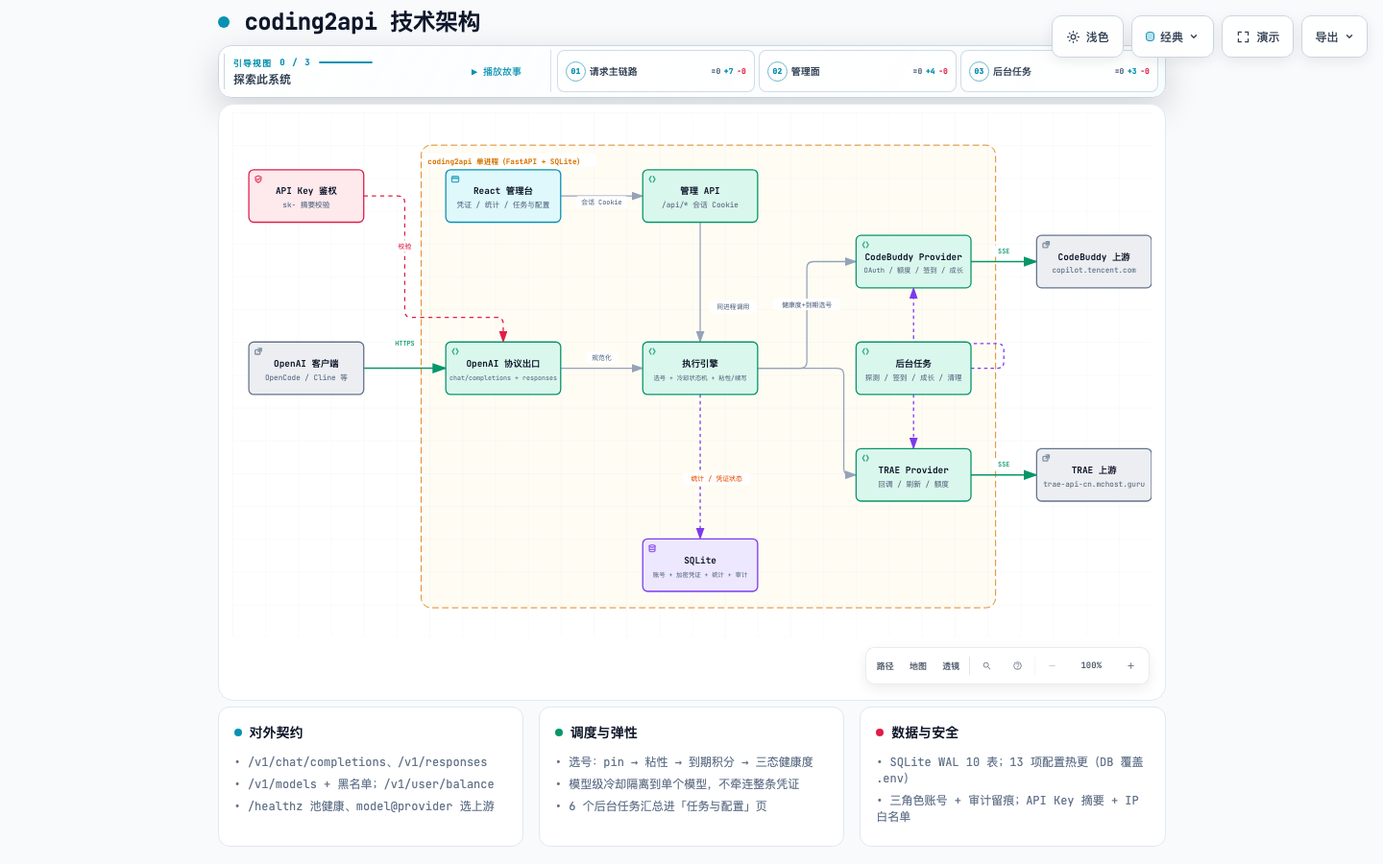
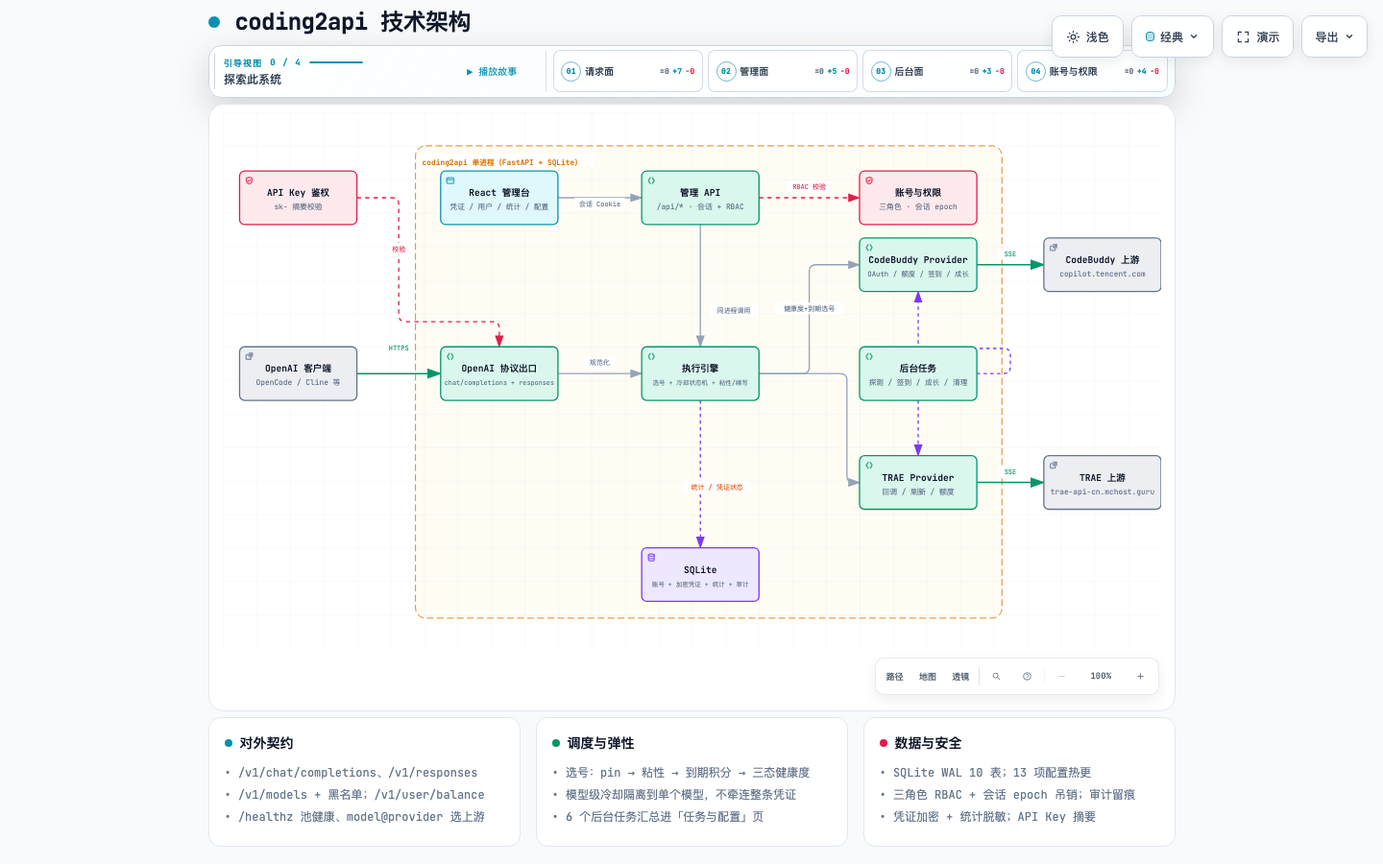
docs(architecture): 整体架构补 B5 账号/权限面
PROPOSAL §4.1 分层从「只有数据面」改为三平面视图（请求面 / 管理面 /
后台面 + 共享 SQLite），并补「为什么按平面切」的四条依据；新增
§4.7 账号与权限面（三角色判定面、鉴权链四步、epoch 吊销、一次性激活
令牌、审计范围、三层防锁死、删除语义），指向 TECHNICAL §3.13。

架构图新增「账号与权限」组件（security / RBAC · 会话 epoch）与
admin-api→identity 的 RBAC 校验边，管理面视图纳入 identity，并新增
第 4 个引导视图「账号与权限」；卡片「数据与安全」补会话 epoch 吊销与
审计留痕。重生成 HTML 与 4 张截图，validate 9/9（0 error / 0 warning），
visual-check 四个视口全 pass（1440×900 溢出 12px 已通过压缩卡片文案消除）。

事实核对：6 类后台循环 = build_runner；WAL + busy_timeout=5000 =
db/conn.py；三角色与 require_admin/require_operator = auth/rbac.py；
守卫顺序 _guard_last_admin 先于 self_target = api/admin_users.py。

diff --git a/diagrams/coding2api-architecture.html b/diagrams/coding2api-architecture.html
@@ -5085,7 +5085,7 @@ OTHER DEALINGS IN THE FONT SOFTWARE.
       </div>
     </div>
 
-    <script id="archify-guided-views-data" type="application/json">[{"id":"request-path","label":"请求主链路","focus":["clients","openai","engine","cb","trae","cb-up","trae-up"],"note":"客户端请求经协议层规范化，由执行引擎选号后流式转发到上游。"},{"id":"admin-plane","label":"管理面","focus":["admin-ui","admin-api","engine","db"],"note":"React 管理台经管理 API 同进程调用引擎，状态落 SQLite。"},{"id":"background","label":"后台任务","focus":["bg","cb","trae"],"note":"签到、额度探测、token 预刷新、成长中心、活跃上报与明细清理经 provider 客户端触达上游，运行态汇总到「任务与配置」页。"}]</script>
+    <script id="archify-guided-views-data" type="application/json">[{"id":"request-path","label":"请求面","focus":["clients","openai","engine","cb","trae","cb-up","trae-up"],"note":"客户端请求经协议层规范化，由执行引擎选号后流式转发到上游。"},{"id":"admin-plane","label":"管理面","focus":["admin-ui","admin-api","identity","engine","db"],"note":"React 管理台经会话鉴权与三角色 RBAC 进入管理 API，同进程调用引擎，状态落 SQLite。"},{"id":"background","label":"后台面","focus":["bg","cb","trae"],"note":"签到、额度探测、token 预刷新、成长中心、活跃上报与明细清理经 provider 客户端触达上游，运行态汇总到「任务与配置」页。"},{"id":"identity-plane","label":"账号与权限","focus":["identity","admin-ui","admin-api","db"],"note":"管理面身份来自 users 表：会话 Cookie 校验签名与 epoch，角色每请求现读 DB；登录与账号变动写审计。"}]</script>
 
     <script id="archify-i18n-data" type="application/json">{"locale":"zh-CN","messages":{"viewer.kind.frontend":"前端","viewer.kind.backend":"后端","viewer.kind.database":"数据库","viewer.kind.cloud":"云服务","viewer.kind.security":"安全","viewer.kind.messagebus":"消息总线","viewer.kind.external":"外部系统","viewer.kind.neutral":"中性","viewer.kind.node":"节点","viewer.kind.start":"开始","viewer.kind.active":"活动","viewer.kind.waiting":"等待","viewer.kind.decision":"决策","viewer.kind.success":"成功","viewer.kind.failure":"失败","viewer.toolbar.actions":"图表操作","viewer.theme.toggle.title":"切换主题（T）","viewer.theme.toggle":"切换颜色主题","viewer.theme.dark":"深色","viewer.theme.light":"浅色","viewer.preset.choose.title":"选择视觉风格（S 循环切换）","viewer.preset.choose":"选择视觉风格","viewer.preset.style":"风格","viewer.preset.menu":"视觉风格","viewer.preset.identity":"视觉表达","viewer.preset.cycles":"S 循环切换","viewer.preset.classic":"经典","viewer.preset.classic.short":"经典","viewer.preset.classic.hint":"稳定的技术默认风格","viewer.preset.flow":"信号流","viewer.preset.flow.short":"流动","viewer.preset.flow.hint":"突出动态流向","viewer.preset.blueprint":"蓝图","viewer.preset.blueprint.hint":"工程评审","viewer.preset.editorial":"编辑风格","viewer.preset.editorial.hint":"适合发布与上线说明","viewer.preset.badge.signalFlow":"信号流","viewer.preset.badge.blueprint":"蓝图 / 修订 01","viewer.preset.badge.editorial":"编辑风格 / 现场笔记","viewer.preset.badge.editorialPlate":"ARCHIFY / 图版 04","viewer.preset.current":"当前视觉风格：{style}。选择视觉风格","viewer.motion.live":"动态","viewer.motion.still":"静态","viewer.motion.pause":"暂停动效","viewer.motion.resume":"恢复动效","viewer.motion.reduced":"已根据减少动态效果偏好暂停动效","viewer.motion.hidden":"页面不可见时已暂停动效","viewer.motion.yielding":"暂停动效；当前让位于{owner}","viewer.motion.yielding.title":"动态预览已启用 · 正在让位于{owner}","viewer.owner.story":"引导故事","viewer.owner.chapter":"当前章节","viewer.owner.chapterPreview":"章节差异预览","viewer.owner.handoff":"章节交接","viewer.owner.route":"路径探测","viewer.owner.lens":"语义透镜","viewer.owner.relationship":"关系预览","viewer.owner.intent":"意图追踪","viewer.owner.focus":"语义聚焦","viewer.owner.legend":"图例预览","viewer.owner.reader":"读者交互","viewer.present.enter":"进入演示模式","viewer.present.enter.title":"演示模式（F）","viewer.present.exit":"退出演示模式","viewer.present.exit.title":"退出演示模式（F 或 Escape）","viewer.present.present":"演示","viewer.present.exit.label":"退出","viewer.export.button":"导出","viewer.export.button.title":"导出图表（E）","viewer.export.diagram":"导出图表","viewer.export.menu":"导出","viewer.export.subtitle":"便携、整洁的输出","viewer.export.share":"分享","viewer.export.shareCard":"分享卡片","viewer.export.routeShareCard":"路径分享卡片","viewer.export.reachShareCard":"可达范围分享卡片","viewer.export.copyShareCard":"复制分享卡片","viewer.export.copyDiagram":"复制图表","viewer.export.clipboardPng":"复制 PNG 到剪贴板","viewer.export.raster":"位图","viewer.export.image":"图像","viewer.export.lossless":"无损图像","viewer.export.compact":"紧凑图像","viewer.export.modern":"现代图像格式","viewer.export.vectorMotion":"矢量与动效","viewer.export.vectorMotion.heading":"矢量与动效","viewer.export.editable":"可编辑矢量图","viewer.export.motion6s":"6 秒动效","viewer.export.unsupported":"当前浏览器不支持","viewer.export.clipboardUnsupported":"当前浏览器不支持写入图片剪贴板","viewer.export.clipboardUnsupported.period":"当前浏览器不支持写入图片剪贴板。","viewer.export.clipboardUnsupported.short":"此浏览器不支持写入图片剪贴板。","viewer.export.motionUnavailable":"当前浏览器无法录制动效","viewer.export.webmUnavailable":"当前浏览器不支持 WebM","viewer.export.failed":"导出失败：{message}","viewer.export.unknownVariant":"未知的分享卡片类型：{variant}","viewer.export.routeRequired":"请先追踪路径，再导出路径分享卡片","viewer.export.reachRequired":"请先追踪编写可达范围，再导出可达范围分享卡片","viewer.export.unknown":"未知错误","viewer.export.routeFailed":"路径分享卡片导出失败：{message}","viewer.export.reachFailed":"可达范围分享卡片导出失败：{message}","viewer.export.copyFailed":"复制失败：{message}","viewer.export.copiedPng":"已将 PNG 复制到剪贴板","viewer.export.copiedShare":"已复制分享卡片","viewer.export.downloadedShare":"已下载分享卡片","viewer.export.downloadedRoute":"已下载路径分享卡片","viewer.export.downloadedReach":"已下载可达范围分享卡片","viewer.export.downloadedWebm":"已下载 WebM","viewer.export.recording":"正在录制 6 秒动效…","viewer.export.card.routeSummary.one":"路径：{source} → {target} · {count} 个有向跳转","viewer.export.card.routeSummary.other":"路径：{source} → {target} · {count} 个有向跳转","viewer.export.card.reachSummary":"从{origin}开始的编写{direction} · {nodes} · {links} · 最深 {hops}","viewer.export.card.node.one":"{count} 个节点","viewer.export.card.node.other":"{count} 个节点","viewer.export.card.link.one":"{count} 条连接","viewer.export.card.link.other":"{count} 条连接","viewer.export.card.hop.one":"{count} 跳","viewer.export.card.hop.other":"{count} 跳","viewer.export.card.routeBadge":"ARCHIFY · 路径 · {hops}","viewer.export.card.reachBadge":"ARCHIFY · {direction}可达范围","viewer.export.card.defaultBadge":"ARCHIFY · {preset} · {theme}","viewer.export.direction.upstream":"上游","viewer.export.direction.downstream":"下游","viewer.export.error.canvasUnavailable":"无法为{label}使用画布","viewer.export.error.contextUnavailable":"无法为{label}创建二维画布上下文","viewer.export.error.toBlobUnavailable":"{label}无法使用 canvas.toBlob","viewer.export.error.toBlobNull":"{label}的 canvas.toBlob 未返回数据","viewer.export.error.variantsCombined":"无法同时组合多种分享卡片类型","viewer.export.error.viewerState":"分享卡片导出无法移除临时 Viewer 状态","viewer.export.error.routeState":"路径卡片导出无法安全保留已解析路径","viewer.export.error.reachState":"可达范围卡片导出无法安全保留编写的可达范围","viewer.export.error.webmRequirements":"WebM 动效导出需要追踪动画及浏览器 MediaRecorder 支持","viewer.export.error.mediaRecorder":"MediaRecorder 录制失败","viewer.export.error.emptyWebm":"MediaRecorder 生成了空的 WebM","viewer.export.error.webmBackground":"无法为 WebM 导出加载 SVG 背景","viewer.guided.region":"图表引导视图","viewer.guided.previous":"上一个引导视图","viewer.guided.previous.title":"上一个引导视图（[）","viewer.guided.next":"下一个引导视图","viewer.guided.next.title":"下一个引导视图（]）","viewer.guided.views":"引导视图","viewer.guided.explore":"探索此系统","viewer.guided.intro":"沿精选路径逐步查看，而不改变源图表。","viewer.guided.trail":"故事轨迹","viewer.guided.beat":"节点","viewer.guided.nextBeat":"下一步","viewer.guided.play":"播放引导故事","viewer.guided.play.title":"播放引导故事（P）","viewer.guided.pause":"暂停引导故事","viewer.guided.pause.title":"暂停引导故事（P）","viewer.guided.replay":"重播引导故事","viewer.guided.replay.title":"重播引导故事（P）","viewer.guided.playStory":"播放故事","viewer.guided.pauseStory":"暂停","viewer.guided.replayStory":"重播故事","viewer.guided.motionUnavailable":"静态模式下无法播放故事","viewer.guided.enableMotion":"切换为动态模式以播放引导故事","viewer.guided.selectBeatLink":"选择故事节点以复制其精确链接","viewer.guided.copyMoment":"复制此刻","viewer.guided.momentCopied":"已复制时刻链接","viewer.guided.momentCopyFailed":"无法复制故事时刻链接","viewer.guided.copied":"已复制","viewer.guided.copyFailed":"复制失败","viewer.guided.showAll":"显示全部","viewer.guided.showAll.aria":"显示完整图表","viewer.guided.chapters":"故事章节","viewer.guided.storyTrail":"{label}的故事轨迹：{count} 个节点","viewer.guided.chapter.open":"打开第 {index}/{total} 章：{label}，{count} 个停靠点","viewer.guided.chapter.current":"当前第 {index}/{total} 章：{label}，{count} 个停靠点","viewer.guided.chapter.selectedNodes":"已选择 {count} 个节点","viewer.guided.chapter.stops":"{count} 个停靠点","viewer.guided.chapter.stop.one":"{count} 个停靠点","viewer.guided.chapter.stop.other":"{count} 个停靠点","viewer.guided.chapter.current.title":"{label} — 当前章节，{count} 个停靠点","viewer.guided.chapter.delta.expanded":"{stay} 个保留，{enter} 个进入，{leave} 个离开","viewer.guided.chapter.delta.aria":"打开第 {index}/{total} 章：{label}。章节聚焦差异：{delta}","viewer.guided.chapter.delta.title":"{label} — 章节聚焦 {delta}","viewer.guided.handoff":"{from} → {to} · 经由{label}","viewer.guided.share.chapter":"章节 {index} / {total}","viewer.guided.share.initial":"章节 01 / 01","viewer.guided.share.default":"引导章节","viewer.guided.state.ready":"就绪","viewer.guided.state.playing":"播放中","viewer.guided.state.settled":"已完成","viewer.guided.state.paused":"已暂停","viewer.guided.state.pinned":"已固定","viewer.guided.state.still":"静态","viewer.guided.share.step":"步骤 {index} / {total} · {label}","viewer.guided.share.staticMoment":"{step} · 静态时刻","viewer.guided.share.complete":"{count} 个步骤已完成 · {note}","viewer.guided.share.settled":"路径已稳定，可供阅读。","viewer.guided.share.staticPath":"{count} 个步骤 · 静态路径","viewer.guided.share.ready":"{count} 个步骤 · 就绪","viewer.guided.share.aria":"{state}，第 {index}/{total} 章：{label}。{beat}。{route}","viewer.guided.beat.start":"节点 {index} / {total} · {label} · 起点","viewer.guided.beat.forward":"节点 {index} / {total} · {from} → {to}","viewer.guided.beat.reverse":"节点 {index} / {total} · {from} → {to} · 反向编写连接","viewer.guided.beat.multiple":"节点 {index} / {total} · {from} ⇄ {to} · {count} 条编写连接","viewer.guided.beat.group":"节点 {index} / {total} · {from} · {to} · 分组 · 无直接连接","viewer.guided.beat.aria.prefix":"故事节点 {index}/{total}：{label}。","viewer.guided.beat.aria.start":"起点。","viewer.guided.beat.aria.forward":"从{from}经一条正向编写关系到达。","viewer.guided.beat.aria.reverse":"从{from}出发；编写关系实际由{to}指向{from}。","viewer.guided.beat.aria.multiple":"从{from}经 {count} 条编写关系到达；不使用任意动效。","viewer.guided.beat.aria.group":"与{from}分组展示，没有直接编写关系。","viewer.guided.caption.start":"起点","viewer.guided.caption.grouped":"分组过渡 · 无直接编写连接","viewer.guided.caption.more":" +另外 {count} 条","viewer.guided.caption.reverse":"反向编写关系","viewer.guided.caption.relationships":"{count} 条编写关系","viewer.guided.caption.relationship":"编写关系","viewer.guided.caption.direction":"编写方向：{from} → {to}","viewer.guided.caption.starting":"编写起点","viewer.guided.beatLink":"复制当前故事时刻链接：第 {index}/{total} 个节点：{label}","viewer.guided.noStory":"此图表没有编写引导故事。","viewer.guide.eyebrow":"图表指南","viewer.guide.close":"关闭图表指南","viewer.guide.inspecting":"正在检查已编译语义","viewer.guide.actions":"图表探索操作","viewer.guide.find":"查找任意节点","viewer.guide.find.hint":"搜索标签、职责、类型和稳定 ID。","viewer.guide.route":"追踪路径","viewer.guide.route.aria":"追踪有向路径","viewer.guide.route.hint":"查看两个语义节点如何按编写方向连接。","viewer.guide.map":"查看完整系统","viewer.guide.map.hint":"打开带实时视口和稳定节点的语义雷达。","viewer.guide.lens":"比较语义类型","viewer.guide.lens.hint":"统计角色、显示流量并比较直接编写的连接。","viewer.guide.story":"播放引导故事","viewer.guide.story.hint":"浏览已编写的章节和真实关系。","viewer.guide.present":"进入演示模式","viewer.guide.present.hint":"让实时图表占满视口，同时不改变导出。","viewer.guide.shortcuts":"其他键盘快捷键","viewer.guide.shortcut.export":"导出","viewer.guide.shortcut.theme":"主题","viewer.guide.shortcut.style":"风格","viewer.guide.shortcut.reset":"重置","viewer.guide.shortcut.zoomIn":"放大","viewer.guide.shortcut.zoomOut":"缩小","viewer.guide.shortcut.close":"关闭","viewer.guide.facts":"{nodes} · {relationships} · {views}","viewer.guide.fact.node.one":"{count} 个语义节点","viewer.guide.fact.node.other":"{count} 个语义节点","viewer.guide.fact.relationship.one":"{count} 条关系","viewer.guide.fact.relationship.other":"{count} 条关系","viewer.guide.fact.view.one":"{count} 个引导视图","viewer.guide.fact.view.other":"{count} 个引导视图","viewer.guide.story.available.one":"浏览 {count} 个已编写章节及其真实关系。","viewer.guide.story.available.other":"浏览 {count} 个已编写章节及其真实关系。","viewer.guide.story.unavailable":"此图表没有编写引导故事。","viewer.guide.open":"打开图表指南","viewer.guide.noStory":"此图表没有编写引导故事。","viewer.finder.title":"查找节点","viewer.finder.close":"关闭节点查找器","viewer.finder.placeholder":"搜索标签或 ID","viewer.finder.search":"搜索图表节点","viewer.finder.results":"图表节点","viewer.finder.empty":"没有匹配的节点","viewer.finder.result.focus":"聚焦{label}","viewer.finder.result.routeStart":"选择{label}作为路径起点","viewer.finder.result.routeTarget":"选择{label}作为路径终点，{links}","viewer.finder.status.empty":"没有匹配的节点","viewer.finder.status.count.one":"{count} 个匹配节点","viewer.finder.status.count.other":"{count} 个匹配节点","viewer.finder.noun.nodes":"个节点","viewer.finder.link.one":"{count} 条连接","viewer.finder.link.other":"{count} 条连接","viewer.finder.result.focus.one":"聚焦{label}，{count} 条相关连接","viewer.finder.result.focus.other":"聚焦{label}，{count} 条相关连接","viewer.finder.status.filtered":"{visible}/{available} {noun}","viewer.finder.status.all":"{available} {noun}","viewer.passport.eyebrow":"语义护照","viewer.passport.metadata":"节点元数据","viewer.passport.evidence":"已验证的源代码证据","viewer.passport.verified":"已验证来源","viewer.passport.verificationScope":"已按固定修订版本验证本地 Git 证据，未检查远程访问权限。","viewer.passport.reach":"编写可达范围","viewer.passport.reach.trace":"追踪编写的可达性","viewer.passport.upstream":"上游","viewer.passport.downstream":"下游","viewer.passport.upstream.trace":"追踪上游编写可达性","viewer.passport.downstream.trace":"追踪下游编写可达性","viewer.passport.close":"关闭语义护照","viewer.passport.copy":"复制链接","viewer.passport.copy.focus":"复制聚焦节点的链接","viewer.passport.relations":"关系","viewer.passport.relations.show":"显示关联关系","viewer.passport.relations.hide":"隐藏关联关系","viewer.passport.relations.list":"关联关系","viewer.passport.copyRelation":"复制关系","viewer.passport.copyNode":"复制节点","viewer.passport.copyPinned":"复制固定关系的链接","viewer.passport.copySource":"复制来源节点的链接","viewer.passport.copy.focused.success":"已复制聚焦节点链接","viewer.passport.copy.pinned.success":"已复制固定关系链接","viewer.passport.copy.focused.failed":"无法复制聚焦节点链接","viewer.passport.copy.pinned.failed":"无法复制固定关系链接","viewer.passport.relationship.none":"没有关联关系","viewer.passport.relationship.count.one":"{count} 条关系","viewer.passport.relationship.count.other":"{count} 条关系","viewer.passport.relationship.show.one":"显示 {count} 条关联关系","viewer.passport.relationship.show.other":"显示 {count} 条关联关系","viewer.passport.relationship.summary":"{out} 条出向 · {in} 条入向{loops}","viewer.passport.relationship.loops":" · {count} 条自环","viewer.passport.relationship.explorer":"直接关系浏览器","viewer.passport.relationship.help":"使用方向键浏览关系。按 Enter 或空格键固定详情；按 Escape 清除。","viewer.passport.relationship.loopsBack":"回环","viewer.passport.relationship.connectsTo":"连接到","viewer.passport.relationship.connectsFrom":"连接自","viewer.passport.relationship.pinned":"已固定关系 · {from} → {to} · {label}","viewer.passport.relationship.inspect":"检查第 {index}/{total} 条关系：{from} 到 {to}，{label}。按 Enter 查看详情。","viewer.passport.relationship.group.out":"出向","viewer.passport.relationship.group.in":"入向","viewer.passport.relationship.group.loop":"自环","viewer.passport.relationship.row":"{group}：{relationship}，{neighbor}","viewer.passport.relationship.direction.out":"出 →","viewer.passport.relationship.direction.in":"← 入","viewer.passport.relationship.direction.loop":"自环","viewer.passport.sourceCount.one":"{count} 个已验证来源引用","viewer.passport.sourceCount.other":"{count} 个已验证来源引用","viewer.passport.sourceMarker":"来源","viewer.passport.beacon.one":"{count} 个已验证来源；聚焦此节点以检查","viewer.passport.beacon.other":"{count} 个已验证来源；聚焦此节点以检查","viewer.passport.repository.open":"打开已验证的仓库修订版本 {revision}","viewer.passport.source.open":"打开修订版本 {revision} 中已验证的来源 {path}","viewer.passport.source.openLink":"打开 ↗","viewer.passport.reach.upstream.one":"追踪 {count} 个上游编写节点","viewer.passport.reach.upstream.other":"追踪 {count} 个上游编写节点","viewer.passport.reach.downstream.one":"追踪 {count} 个下游编写节点","viewer.passport.reach.downstream.other":"追踪 {count} 个下游编写节点","viewer.passport.reach.noUpstream":"没有上游编写节点","viewer.passport.reach.noDownstream":"没有下游编写节点","viewer.passport.reach.status":"{direction} · {nodes} 个节点 · {links} 条连接 · 最深 {hops} 跳","viewer.route.eyebrow":"路径探测","viewer.route.start":"选择起点节点","viewer.route.start.find":"查找起点","viewer.route.start.find.aria":"查找路径起点","viewer.route.copy":"复制链接","viewer.route.copy.aria":"复制已追踪路径的链接","viewer.route.clear":"清除","viewer.route.clear.aria":"清除路径探测","viewer.route.traced":"已追踪路径","viewer.route.pickTwo":"在图表中选择两个语义节点","viewer.route.pickOne":"在图表中选择一个语义节点","viewer.route.controls":"路径旅程控制","viewer.route.previous":"上一个路径位置","viewer.route.play":"播放路径旅程","viewer.route.pause":"暂停路径旅程","viewer.route.replay":"重播路径旅程","viewer.route.next":"下一个路径位置","viewer.route.journey":"旅程","viewer.route.pause.label":"暂停","viewer.route.replay.label":"重播","viewer.route.overview":"总览","viewer.route.overview.aria":"显示完整路径总览","viewer.route.instructions":"先选择来源，再选择目标；方向很重要。","viewer.route.destination":"选择从{label}出发的目标","viewer.route.destination.find":"查找目标","viewer.route.destination.find.aria":"查找可达的路径目标","viewer.route.differentDestination":"选择其他目标","viewer.route.distinct":"一条路径需要两个不同的语义节点。","viewer.route.unreachable":"没有通往{label}的有向路径","viewer.route.unreachable.detail":"从{source}无法到达{target}。请选择高亮的目标。","viewer.route.start.instructions":"选择来源。下一步只会显示有向可达的目标。","viewer.route.copy.success":"已复制路径链接","viewer.route.copy.failed":"无法复制路径链接","viewer.route.position":"路径位置 {index}/{total}：{label}","viewer.route.step":"第 {index}/{total} 步 · {phase} · {label}","viewer.route.motionRequired":"自动旅程需要动态模式","viewer.route.trigger.clear":"清除已追踪路径","viewer.route.overview.status":"{nodes} · {hops} · 最短编写路径","viewer.route.overview.node.one":"{count} 个节点","viewer.route.overview.node.other":"{count} 个节点","viewer.route.overview.hop.one":"{count} 个有向跳转","viewer.route.overview.hop.other":"{count} 个有向跳转","viewer.route.phase.playing":"播放中","viewer.route.phase.complete":"已完成","viewer.route.phase.inspecting":"检查中","viewer.route.destination.count.one":"有 {count} 个有向目标可用。请选择高亮节点。","viewer.route.destination.count.other":"有 {count} 个有向目标可用。请选择高亮节点。","viewer.route.noOutgoing":"此处没有可用的出向路径。请清除后选择其他来源。","viewer.route.result.title":"{source} 到 {target}","viewer.route.finder.source.title":"选择路径起点","viewer.route.finder.source.placeholder":"搜索路径来源","viewer.route.finder.source.empty":"没有匹配的路径来源","viewer.route.finder.source.results":"可作为路径起点的节点","viewer.route.finder.source.noun":"个路径来源","viewer.route.finder.source.badge":"起点","viewer.route.finder.target.title":"从{label}出发的目标","viewer.route.finder.target.placeholder":"搜索可达目标","viewer.route.finder.target.empty":"没有匹配的可达目标","viewer.route.finder.target.results":"可达路径目标","viewer.route.finder.target.noun":"个可达目标","viewer.route.hop.one":"{count} 跳","viewer.route.hop.other":"{count} 跳","viewer.lens.eyebrow":"语义透镜","viewer.lens.title":"比较系统角色","viewer.lens.close":"关闭语义透镜","viewer.lens.instruction":"最多选择两种语义类型。选择一种可显示其真实流量；选择两种只比较直接编写的关系。","viewer.lens.kinds":"语义类型","viewer.lens.choose":"选择一种类型以检查其节点和相连关系。","viewer.lens.copy":"复制语义透镜链接","viewer.lens.clear":"清除语义透镜","viewer.lens.open":"打开语义透镜","viewer.lens.openActive":"打开当前语义透镜","viewer.lens.legend":"语义图例","viewer.lens.legend.inspect.one":"检查{label}，{count} 个节点","viewer.lens.legend.inspect.other":"检查{label}，{count} 个节点","viewer.lens.kind.count.one":"{label}，{count} 个节点","viewer.lens.kind.count.other":"{label}，{count} 个节点","viewer.lens.compare.one":"{first} → {second}：{forward} · {second} → {first}：{reverse} · 共 {count} 条直接关系","viewer.lens.compare.other":"{first} → {second}：{forward} · {second} → {first}：{reverse} · 共 {count} 条直接关系","viewer.lens.single":"{nodes} · {relationships} · 已连接节点保持可见","viewer.lens.node.one":"{count} 个{label}节点","viewer.lens.node.other":"{count} 个{label}节点","viewer.lens.relationship.one":"{count} 条相连关系","viewer.lens.relationship.other":"{count} 条相连关系","viewer.radar.title":"语义雷达","viewer.radar.building":"正在构建总览","viewer.radar.openFull":"打开完整语义雷达","viewer.radar.open":"打开雷达","viewer.radar.close":"关闭语义雷达","viewer.radar.surface":"图表总览。点击节点进行聚焦，或使用方向键平移。","viewer.radar.click":"点击节点","viewer.radar.drag":"拖动平移","viewer.radar.space":"语义雷达需要更多地图可见空间。","viewer.radar.nodes":"语义图表雷达节点","viewer.radar.focus":"从语义雷达聚焦{label}","viewer.radar.status":"{count} 个节点 · {viewport}","viewer.radar.fullMap":"{count} 个节点 · 完整地图","viewer.radar.compacted":"已收紧雷达，避免遮挡语义护照或地图控件。","viewer.radar.cancelWaiting":"取消等待更多地图空间的语义雷达","viewer.radar.needsSpace":"语义雷达需要更多可见地图空间","viewer.radar.viewport.full":"完整地图","viewer.radar.viewport.width":"宽度 {percent}%","viewer.radar.viewport.scale":"视口 {percent}%","viewer.nav.controls":"图表视图控制","viewer.nav.route":"追踪有向路径","viewer.nav.route.title":"追踪路径（R）","viewer.nav.route.short":"路径","viewer.nav.radar":"打开语义雷达","viewer.nav.radar.title":"语义雷达（M）","viewer.nav.radar.short":"地图","viewer.nav.lens":"打开语义透镜","viewer.nav.lens.title":"语义透镜（L）","viewer.nav.lens.short":"透镜","viewer.nav.find":"查找节点","viewer.nav.find.title":"查找节点（/）","viewer.nav.guide":"打开图表指南","viewer.nav.guide.title":"图表指南（?）","viewer.nav.zoomOut":"缩小","viewer.nav.zoomOut.title":"缩小（-）","viewer.nav.reset":"重置图表视图","viewer.nav.reset.title":"重置视图（0）","viewer.nav.read":"阅读","viewer.nav.zoomIn":"放大","viewer.nav.zoomIn.title":"放大（+）","viewer.nav.camera":"{hint}。重置图表视图","viewer.nav.camera.title":"{semantic}{hint} · 重置视图（0）","viewer.nav.camera.semantic":"语义相机已启用 · ","viewer.nav.level.map":"概览","viewer.nav.level.read":"阅读","viewer.nav.level.full":"完整","viewer.nav.level.auto":"自动","viewer.nav.detail.map":"放大以显示关系标签和节点上下文","viewer.nav.detail.read":"再次放大以显示标签和注释","viewer.nav.detail.full":"完整图表详情","viewer.intent.summary":"{label}。{out} 条出向，{in} 条入向{loops}。共 {total} 条连接。按 Enter 查看详情。","viewer.intent.loops":"，{count} 条自环","viewer.common.copied":"已复制","viewer.common.copyFailed":"复制失败","viewer.common.copyLink":"复制链接","viewer.common.clear":"清除","viewer.common.close":"关闭"}}</script>
     <div class="guided-views no-print" id="guided-views" hidden aria-label="图表引导视图">
@@ -5171,6 +5171,7 @@ OTHER DEALINGS IN THE FONT SOFTWARE.
         <path data-edge-from="admin-ui" data-edge-to="admin-api" data-edge-label="会话 Cookie" data-edge-key="9" data-edge-id="admin-ui-to-api" data-composition-points="400,102;500,102" d="M 400 102 L 500 102" class="a-default" stroke-width="1.5" marker-end="url(#arrowhead)"/>
         <path data-edge-from="admin-api" data-edge-to="engine" data-edge-label="同进程调用" data-edge-key="10" data-edge-id="admin-api-to-engine" data-composition-points="570,134;570,280" d="M 570 134 L 570 280" class="a-default" stroke-width="1.5" marker-end="url(#arrowhead)"/>
         <path data-edge-from="auth" data-edge-to="openai" data-edge-label="校验" data-edge-key="11" data-edge-id="auth-to-openai" data-composition-points="160,102;210,102;210,250;330,250;330,280" d="M 160 102 L 202 102 Q 210 102 210 110 L 210 242 Q 210 250 218 250 L 322 250 Q 330 250 330 258 L 330 280" class="a-security" stroke-width="1.5" marker-end="url(#arrowhead-security)"/>
+        <path data-edge-from="admin-api" data-edge-to="identity" data-edge-label="RBAC 校验" data-edge-key="12" data-edge-id="admin-api-to-identity" data-composition-points="640,102;760,102" d="M 640 102 L 760 102" class="a-security" stroke-width="1.5" marker-end="url(#arrowhead-security)"/>
 
         <!-- Components -->
         <g id="node-auth" data-node-id="auth" data-node-label="API Key 鉴权" tabindex="0" role="button" aria-label="聚焦API Key 鉴权，sk- 摘要校验, 架构组件" aria-pressed="false" data-node-kind="security" data-node-sublabel="sk- 摘要校验" data-node-tag="sk-" data-node-context="架构组件">
@@ -5186,8 +5187,8 @@ OTHER DEALINGS IN THE FONT SOFTWARE.
         <text data-detail="fine" x="90" y="126" class="t-security" font-size="7" text-anchor="middle">sk-</text>
         </g>
 
-        <g id="node-admin-ui" data-node-id="admin-ui" data-node-label="React 管理台" tabindex="0" role="button" aria-label="聚焦React 管理台，凭证 / 统计 / 任务与配置, coding2api 单进程（FastAPI + SQLite）" aria-pressed="false" data-node-kind="frontend" data-node-sublabel="凭证 / 统计 / 任务与配置" data-node-context="coding2api 单进程（FastAPI + SQLite）">
-          <title>React 管理台 · 凭证 / 统计 / 任务与配置 · coding2api 单进程（FastAPI + SQLite）</title>
+        <g id="node-admin-ui" data-node-id="admin-ui" data-node-label="React 管理台" tabindex="0" role="button" aria-label="聚焦React 管理台，凭证 / 用户 / 统计 / 配置, coding2api 单进程（FastAPI + SQLite）" aria-pressed="false" data-node-kind="frontend" data-node-sublabel="凭证 / 用户 / 统计 / 配置" data-node-context="coding2api 单进程（FastAPI + SQLite）">
+          <title>React 管理台 · 凭证 / 用户 / 统计 / 配置 · coding2api 单进程（FastAPI + SQLite）</title>
           <rect x="260" y="70" width="140" height="64" rx="6" class="c-mask"/>
           <rect x="260" y="70" width="140" height="64" rx="6" class="c-frontend" stroke-width="1.5"/>
           <g aria-hidden="true" data-semantic-sigil="frontend" class="semantic-sigil s-frontend" transform="translate(266 76) scale(0.6875)">
@@ -5197,18 +5198,31 @@ OTHER DEALINGS IN THE FONT SOFTWARE.
             <circle cx="6.3" cy="4.8" r=".7" class="sigil-fill"/>
           </g>
           <text data-node-label="" data-detail-anchor="" x="330" y="100" class="t-primary" font-size="11" font-weight="600" text-anchor="middle">React 管理台</text>
-        <text data-detail="context" x="330" y="116" class="t-muted" font-size="9" text-anchor="middle">凭证 / 统计 / 任务与配置</text>
+        <text data-detail="context" x="330" y="116" class="t-muted" font-size="8.8" text-anchor="middle">凭证 / 用户 / 统计 / 配置</text>
         </g>
 
-        <g id="node-admin-api" data-node-id="admin-api" data-node-label="管理 API" tabindex="0" role="button" aria-label="聚焦管理 API，/api/* 会话 Cookie, coding2api 单进程（FastAPI + SQLite）" aria-pressed="false" data-node-kind="backend" data-node-sublabel="/api/* 会话 Cookie" data-node-context="coding2api 单进程（FastAPI + SQLite）">
-          <title>管理 API · /api/* 会话 Cookie · coding2api 单进程（FastAPI + SQLite）</title>
+        <g id="node-admin-api" data-node-id="admin-api" data-node-label="管理 API" tabindex="0" role="button" aria-label="聚焦管理 API，/api/* · 会话 + RBAC, coding2api 单进程（FastAPI + SQLite）" aria-pressed="false" data-node-kind="backend" data-node-sublabel="/api/* · 会话 + RBAC" data-node-context="coding2api 单进程（FastAPI + SQLite）">
+          <title>管理 API · /api/* · 会话 + RBAC · coding2api 单进程（FastAPI + SQLite）</title>
           <rect x="500" y="70" width="140" height="64" rx="6" class="c-mask"/>
           <rect x="500" y="70" width="140" height="64" rx="6" class="c-backend" stroke-width="1.5"/>
           <g aria-hidden="true" data-semantic-sigil="backend" class="semantic-sigil s-backend" transform="translate(506 76) scale(0.6875)">
             <path d="M6 3 3 8l3 5M10 3l3 5-3 5"/>
           </g>
           <text data-node-label="" data-detail-anchor="" x="570" y="100" class="t-primary" font-size="11" font-weight="600" text-anchor="middle">管理 API</text>
-        <text data-detail="context" x="570" y="116" class="t-muted" font-size="9" text-anchor="middle">/api/* 会话 Cookie</text>
+        <text data-detail="context" x="570" y="116" class="t-muted" font-size="9" text-anchor="middle">/api/* · 会话 + RBAC</text>
+        </g>
+
+        <g id="node-identity" data-node-id="identity" data-node-label="账号与权限" tabindex="0" role="button" aria-label="聚焦账号与权限，三角色 · 会话 epoch, coding2api 单进程（FastAPI + SQLite）" aria-pressed="false" data-node-kind="security" data-node-sublabel="三角色 · 会话 epoch" data-node-tag="RBAC" data-node-context="coding2api 单进程（FastAPI + SQLite）">
+          <title>账号与权限 · 三角色 · 会话 epoch · coding2api 单进程（FastAPI + SQLite） · RBAC</title>
+          <rect x="760" y="70" width="140" height="64" rx="6" class="c-mask"/>
+          <rect x="760" y="70" width="140" height="64" rx="6" class="c-security" stroke-width="1.5"/>
+          <g aria-hidden="true" data-semantic-sigil="security" class="semantic-sigil s-security" transform="translate(766 76) scale(0.6875)">
+            <path d="M8 2.2 13 4v3.5c0 3.1-1.8 5.4-5 6.5-3.2-1.1-5-3.4-5-6.5V4Z"/>
+            <path d="m5.8 8 1.5 1.5 3-3"/>
+          </g>
+          <text data-node-label="" data-detail-anchor="" x="830" y="100" class="t-primary" font-size="11" font-weight="600" text-anchor="middle">账号与权限</text>
+        <text data-detail="context" x="830" y="116" class="t-muted" font-size="9" text-anchor="middle">三角色 · 会话 epoch</text>
+        <text data-detail="fine" x="830" y="126" class="t-security" font-size="7" text-anchor="middle">RBAC</text>
         </g>
 
         <g id="node-clients" data-node-id="clients" data-node-label="OpenAI 客户端" tabindex="0" role="button" aria-label="聚焦OpenAI 客户端，OpenCode / Cline 等, 架构组件" aria-pressed="false" data-node-kind="external" data-node-sublabel="OpenCode / Cline 等" data-node-context="架构组件">
@@ -5357,6 +5371,10 @@ OTHER DEALINGS IN THE FONT SOFTWARE.
         <g data-detail="context" data-edge-from="auth" data-edge-to="openai" data-edge-label="校验" data-edge-key="11" data-edge-id="auth-to-openai">
           <rect x="195" y="156" width="30" height="14" rx="3" class="c-mask"/>
           <text x="210" y="166" class="t-security" font-size="8" text-anchor="middle">校验</text>
+        </g>
+        <g data-detail="context" data-edge-from="admin-api" data-edge-to="identity" data-edge-label="RBAC 校验" data-edge-key="12" data-edge-id="admin-api-to-identity">
+          <rect x="673.4" y="82" width="53.199999999999996" height="14" rx="3" class="c-mask"/>
+          <text x="700" y="92" class="t-security" font-size="8" text-anchor="middle">RBAC 校验</text>
         </g>
 
         <!-- Boundary labels (foreground masks keep routes out of titles) -->
@@ -5583,8 +5601,9 @@ OTHER DEALINGS IN THE FONT SOFTWARE.
           <h3>数据与安全</h3>
         </div>
         <ul>
-          <li>&bull; SQLite WAL 10 表；13 项配置热更（DB 覆盖 .env）</li>
-          <li>&bull; 三角色账号 + 审计留痕；API Key 摘要 + IP 白名单</li>
+          <li>&bull; SQLite WAL 10 表；13 项配置热更</li>
+          <li>&bull; 三角色 RBAC + 会话 epoch 吊销；审计留痕</li>
+          <li>&bull; 凭证加密 + 统计脱敏；API Key 摘要</li>
         </ul>
       </div>
     </div>

diff --git a/PROPOSAL.md b/PROPOSAL.md
@@ -112,31 +112,43 @@
 
 ### 4.1 分层
 
+一个 FastAPI 进程内按**三个平面**组织，三面共享同一份 SQLite 与 Provider 客户端：
+
 ```
-┌──────────────────────────────────────────────┐
-│  客户端  POST /v1/chat/completions            │
-│          GET  /v1/models                      │
-└────────────────────┬─────────────────────────┘
-                     │
-┌────────────────────▼─────────────────────────┐
-│  协议层  OpenAI 请求规范化 / 响应适配          │
-│  模型名解析：name | name@provider             │
-└────────────────────┬─────────────────────────┘
-                     │
-┌────────────────────▼─────────────────────────┐
-│  执行引擎                                     │
-│  ┌──────────┐ ┌──────────┐ ┌──────────┐      │
-│  │ 调度器   │ │ 冷却状态 │ │ 统计采集 │      │
-│  │ Select() │ │ 机       │ │          │      │
-│  └──────────┘ └──────────┘ └──────────┘      │
-└────────────────────┬─────────────────────────┘
-                     │ 中立事件流
-        ┌────────────┴────────────┐
-┌───────▼────────┐       ┌────────▼───────┐
-│ CodeBuddy      │       │ TRAE SOLO      │
-│ Provider       │       │ Provider       │
-└────────────────┘       └────────────────┘
+╔═ 请求面 ═══ 外部数据流 · 鉴权 = API Key ═════════════════════════════╗
+║ 客户端   POST /v1/chat/completions · /v1/responses                   ║
+║          GET  /v1/models · /v1/user/balance                          ║
+║             │                                                        ║
+║ 协议层   OpenAI 请求规范化 / 响应适配                                ║
+║          模型名解析：name ｜ name@provider                           ║
+║             │                                                        ║
+║ 执行引擎  调度器 · 冷却状态机 · 会话粘性 · 截断续写 · 统计采集       ║
+║             │ 中立事件流                                             ║
+║ CodeBuddy Provider                TRAE SOLO Provider                 ║
+╚══════════════════════════════════════════════════════════════════════╝
+         ▲ 同进程调用（管理面复用引擎与仓储）
+         │
+╔═ 管理面 ═══ 内部管理流 · 鉴权 = 会话 Cookie + RBAC ══════════════════╗
+║ React 管理台 ──会话 Cookie──▶ 会话鉴权 + RBAC ──▶ 管理 API  /api/*   ║
+║ 用户管理 · 审计 · 凭证运维 · API Key · 统计 · 任务与配置             ║
+╚══════════════════════════════════════════════════════════════════════╝
+
+╔═ 后台面 ═══ 无 HTTP 入口 · 6 类循环 ═════════════════════════════════╗
+║ 额度探测 · token 预刷新 · 每日签到 · 成长中心 · 活跃上报 · 明细清理  ║
+║       └──────────▶ Provider 客户端 ──────────▶ 上游                  ║
+╚══════════════════════════════════════════════════════════════════════╝
+                    │ 三面共享
+        SQLite（WAL）：账号 / 加密凭证 / 统计 / 审计
 ```
+
+**为什么按平面切**（而不是按「模块」或「服务」切）：
+
+- **请求面**面向外部客户端，鉴权是 **API Key**（SHA-256 摘要 + 来源 IP 白名单 + 渠道绑定）；链路「协议层 → 执行引擎 → Provider」全程无状态、可并发。它不知道「人」是谁，只认 Key 的归属用户（用于按人统计）。
+- **管理面**面向浏览器，鉴权是**签名会话 Cookie + 三角色 RBAC**（Q18/Q39，见 §4.7）；角色每请求现读 DB，改密 / 降级 / 禁用立即吊销。管理与请求**共用同一个执行引擎与仓储**，不做成独立服务——2–10 人自托管实例里，进程隔离只换来部署复杂度。
+- **后台面**没有 HTTP 入口，由 `TaskRunner` 起 6 类循环（[TECHNICAL.md §6.2](TECHNICAL.md)），与请求面**共用 Provider 客户端与节流器**：两渠道的风控按最小间隔生效，不能因为「后台签到」与「前台对话」是两条代码路径就各发各的。
+- **三面共享一份 SQLite**（WAL + `busy_timeout=5000`）：账号、加密凭证、统计与审计同库，因此升级只需重启**一个**进程（[TECHNICAL.md §6.4](TECHNICAL.md)）。
+
+两个鉴权面互不替代：API Key 进不了管理台，会话 Cookie 也进不了 `/v1`（各自独立依赖，见 [TECHNICAL.md §2](TECHNICAL.md) 的 `deps.py`）。
 
 ### 4.2 Provider 接口（Q16=A 细接口）
 
@@ -239,6 +251,30 @@ class AuthSession(BaseModel):
 ### 4.6 中立事件层（Q13=B 预留）
 
 v1 只接 OpenAI 出口，但上游 SSE 解析到「中立事件」这一步独立成层（`Event` 定义见 [TECHNICAL.md §3.1](TECHNICAL.md)）。v1.1 加 Anthropic 出口时，只新增一个 `Event → Anthropic SSE` 适配器，不动上游逻辑。
+
+### 4.7 账号与权限面（B5，Q39）
+
+管理面的身份来自 SQLite `users` 表，不再是 `users.txt` + `ADMIN_USERNAMES` env。三档角色与判定面：
+
+| 角色 | 能做什么 | 判定依赖 | 典型用途 |
+|---|---|---|---|
+| `admin` | 用户管理、运行时配置、凭证全部写操作 | `require_admin` | 维护者 |
+| `operator` | 凭证写操作（导入 / 删除 / 启停 / pin / 切换账号 / 签到 / 成长） | `require_operator` | 日常运维 |
+| `viewer` | 只读（含统计与审计查看） | 无（登录即可） | 观察者 |
+
+**鉴权链**（每个管理面请求）：签名 Cookie（HMAC，payload 带用户名与 `session_epoch`）→ 用户仍存在且启用 → epoch 与 DB 一致 → 角色现读 DB。四者缺一即 401；**角色不进 Cookie**，所以降级立即生效，不必等 Cookie 过期。
+
+**吊销不建会话表**：`users.session_epoch` 在改密 / 改角色 / 启停 / 硬删时 `+1`，旧 Cookie 当场失效；老 Cookie 无 `ep` 声明按 0 处理，升级不打断已登录会话。
+
+**建号与重置走一次性激活令牌**：库里只存 SHA-256 摘要 + 过期时间，明文仅在创建 / 重置的响应里回显一次，用户在 `/activate` 自设密码。项目没有邮件设施，这是「不出现管理员已知的共享密码」的最优解；心智模型与「API Key 明文仅一次」一致。被重置的用户 `must_change_password=1`，改密前只放行「看会话 / 改密 / 登出」三条精确白名单。
+
+**审计**：登录成败、账号建 / 激活 / 改角色 / 启停 / 改密 / 重置 / 硬删、凭证写操作全部入 `audit_events`，**绝不记密码或令牌明文**；查询走 admin-only 的 `GET /api/audit`。
+
+**三层防锁死**：Web 端「最后一个活跃 admin」守卫 + 自我降级 / 自禁用守卫；CLI 拒绝硬删最后一个活跃 admin；bootstrap 发现无活跃 admin 直接启动失败（并给出恢复路径）。
+
+**删除语义**：**禁用是主路径**（可逆、保住用量归属），硬删只在 `scripts/create_user.py --delete --force`，管理台不暴露 `DELETE`。
+
+实现细节（引导三层、防锁死顺序、白名单端点、schema）见 [TECHNICAL.md §3.13](TECHNICAL.md)。
 
 ## 5. 数据模型
 
